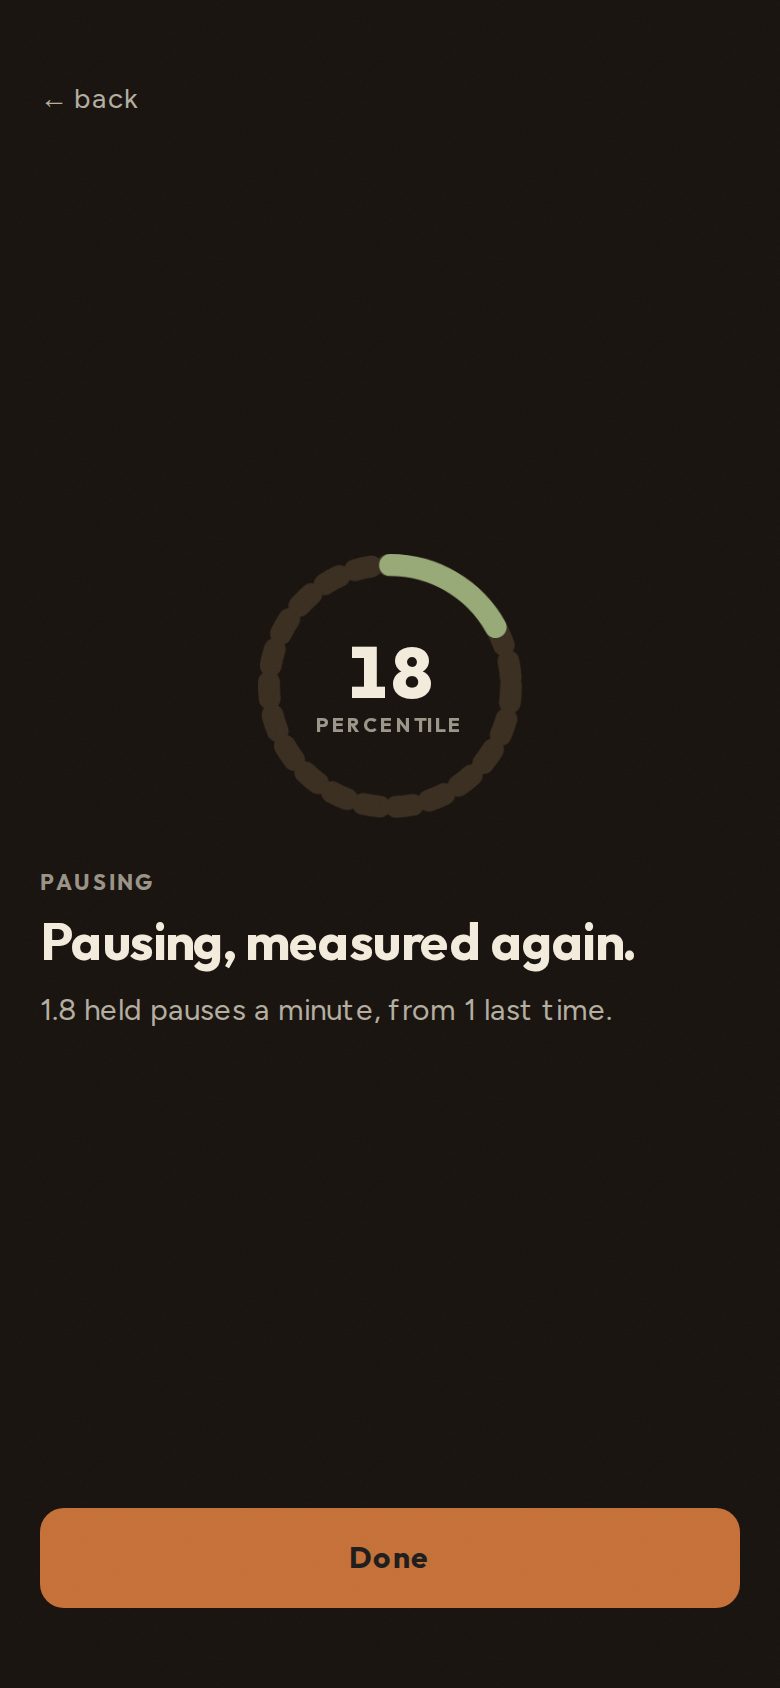
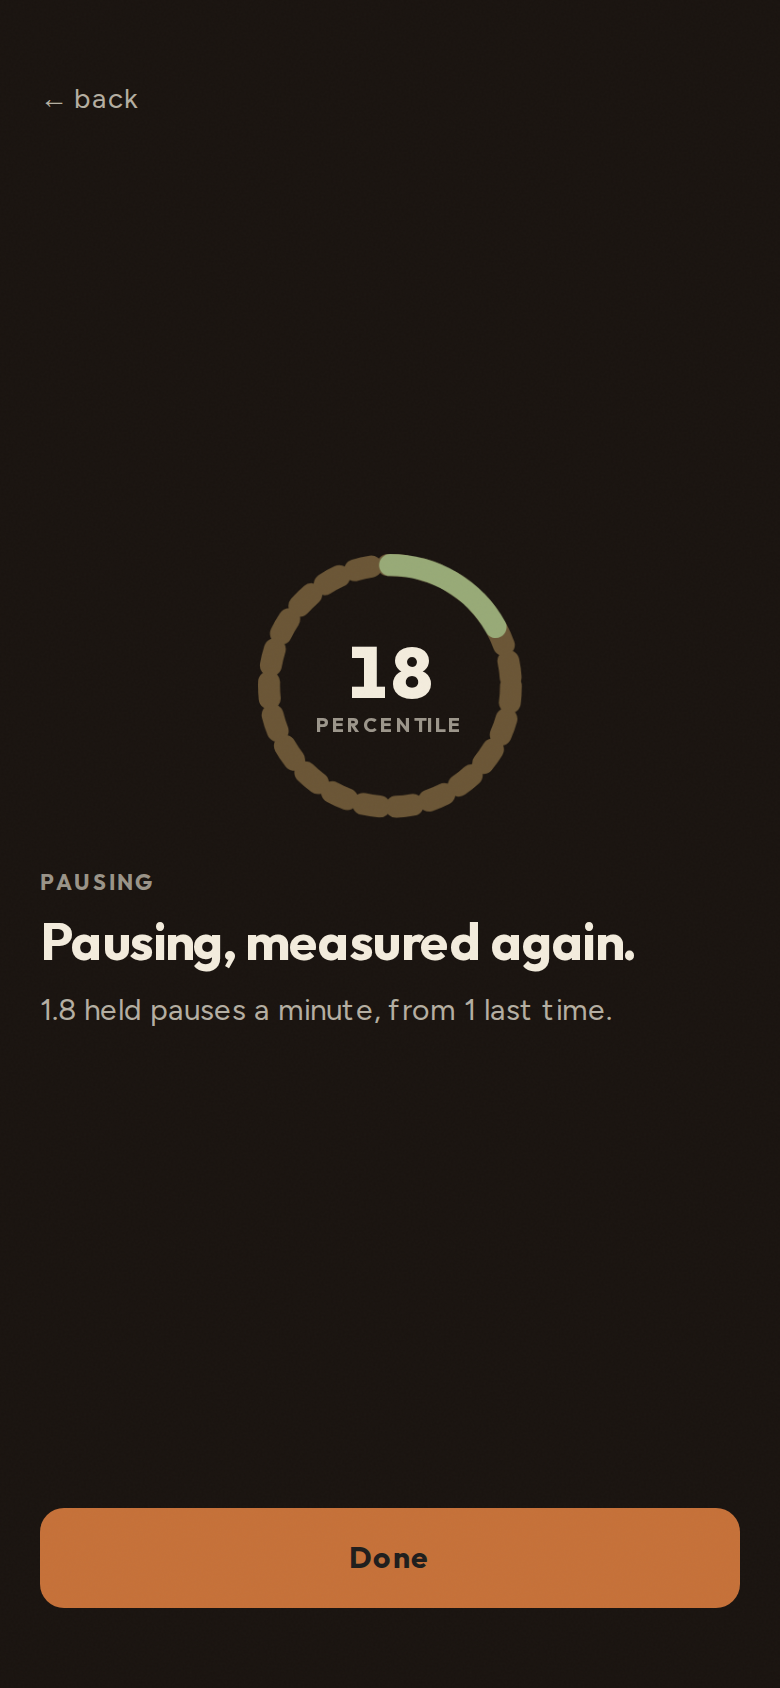
THE SHIFT: the honesty signal was invisible in one theme and then in the other
The dashed trough is the ring saying "this scale is an estimate" in the
picture rather than in a footnote, and on the dark card it had almost no
contrast: a dashed stroke carries about half the ink of a solid one at
the same colour, so matching the solid trough's value makes the dashes
read as an absence rather than as a mark. It now has its own token, one
step firmer than `sand` in light and further than that in dark.

The first attempt made it worse. Declared inside `@theme`, Tailwind v4
tree-shakes any theme variable no utility class references, so the light
value never reached the build, `var()` resolved to nothing, and the
trough computed to `stroke: none`. Light lost its dashes entirely while
dark gained them. Caught by looking at the two themes side by side and
then reading the computed stroke rather than guessing at it. The token
lives in a plain `:root` now, with the reason written next to it.

Claude-Session: https://claude.ai/code/session_01ByViNHuJd3sP9TnXSHXejq

Changed region(s): [[0.3077, 0.3081, 0.6769, 0.4929]]

diff --git a/app/globals.css b/app/globals.css
@@ -159,6 +159,25 @@
 }
 
 /*
+ * The trough a PROVISIONAL ring draws, dashed (DECISIONS #252, #264).
+ *
+ * One step firmer than `sand` on purpose: a dashed stroke carries about
+ * half the ink of a solid one at the same colour, so matching the solid
+ * trough's contrast makes the dashes read as an absence rather than as
+ * a mark. The dash is the app saying "this scale is an estimate" in the
+ * picture rather than in a footnote, and it has to survive a glance.
+ *
+ * In a plain `:root` and NOT in `@theme`, because Tailwind v4 drops any
+ * theme variable no utility class references. Declared in there it
+ * vanished from the light build, `var()` resolved to nothing, and the
+ * trough computed to `stroke: none` — an invisible honesty signal,
+ * which is worse than a loud one.
+ */
+:root {
+  --color-sand-dashed: #ddc99c;
+}
+
+/*
  * The text roles (DECISIONS #208, #212). Named for the JOB, not the
  * size, and a screen that wants a level beyond its three is a screen
  * with too much on it.
@@ -232,6 +251,10 @@ body {
   --color-surface: #241c15;
   --color-raised: #2e251c;
   --color-sand: #3b2f22;
+  /* Lifted further here than in light. On the dark card the solid
+     trough is already close to the surface it sits on, and the dashed
+     one at the same value disappeared entirely. */
+  --color-sand-dashed: #6b5636;
   --color-stage: #120e0b;
   --color-ink: #f3ecdd;
   --color-hairline: rgba(243, 236, 221, 0.08);

diff --git a/components/Ring.tsx b/components/Ring.tsx
@@ -168,7 +168,9 @@ export function Ring({
           cy={size / 2}
           r={r}
           fill="none"
-          stroke={track ?? "var(--color-sand)"}
+          stroke={
+            track ?? `var(--color-sand${provisional ? "-dashed" : ""})`
+          }
           strokeWidth={stroke}
           pathLength={1}
           strokeDasharray={provisional ? `${DASH} ${DASH}` : undefined}

diff --git a/docs/percentiles.md b/docs/percentiles.md
@@ -625,8 +625,8 @@ rather than a documentation pass.
 
 ## What this review says to do, in order
 
-Numbered by how much they change, not by effort. The first three are
-changes to numbers the app already ships and they do not wait on any
+Numbered by how much they change, not by effort. The first four are
+changes to numbers the app already ships, and not one of them waits on a
 percentile.
 
 1. **Recalibrate `fillerScore` and `repairScore`.** The median speaker
